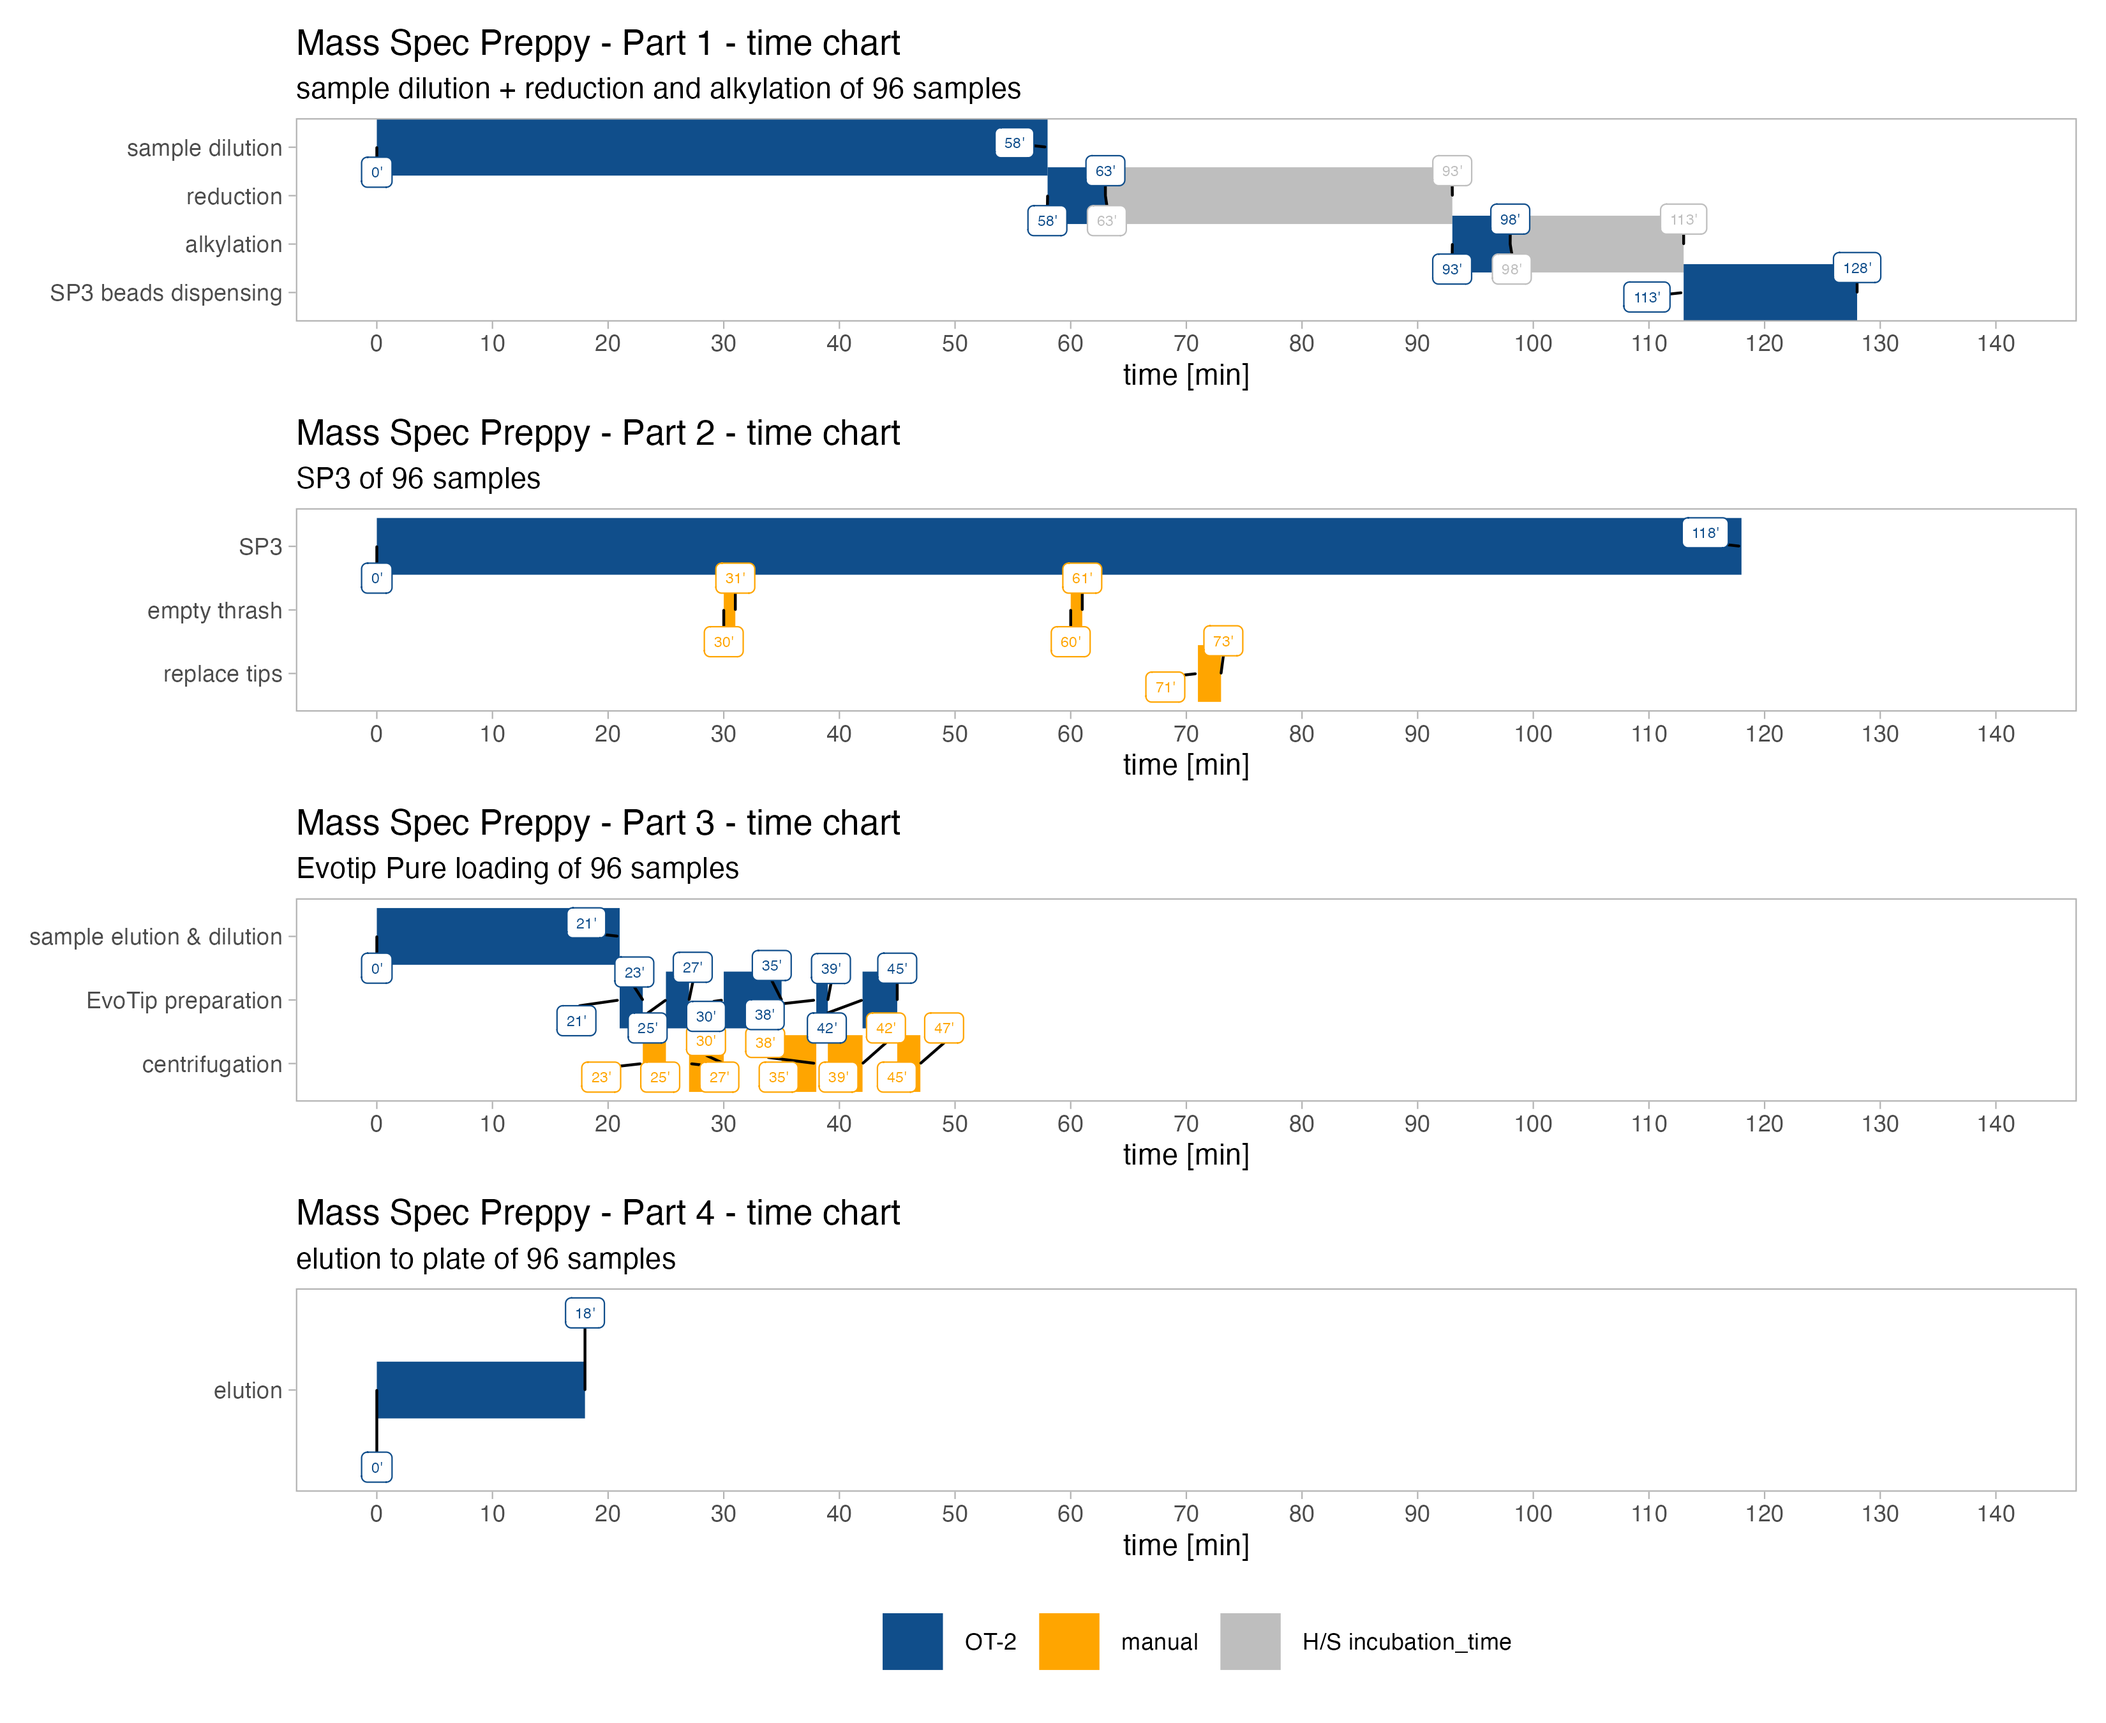
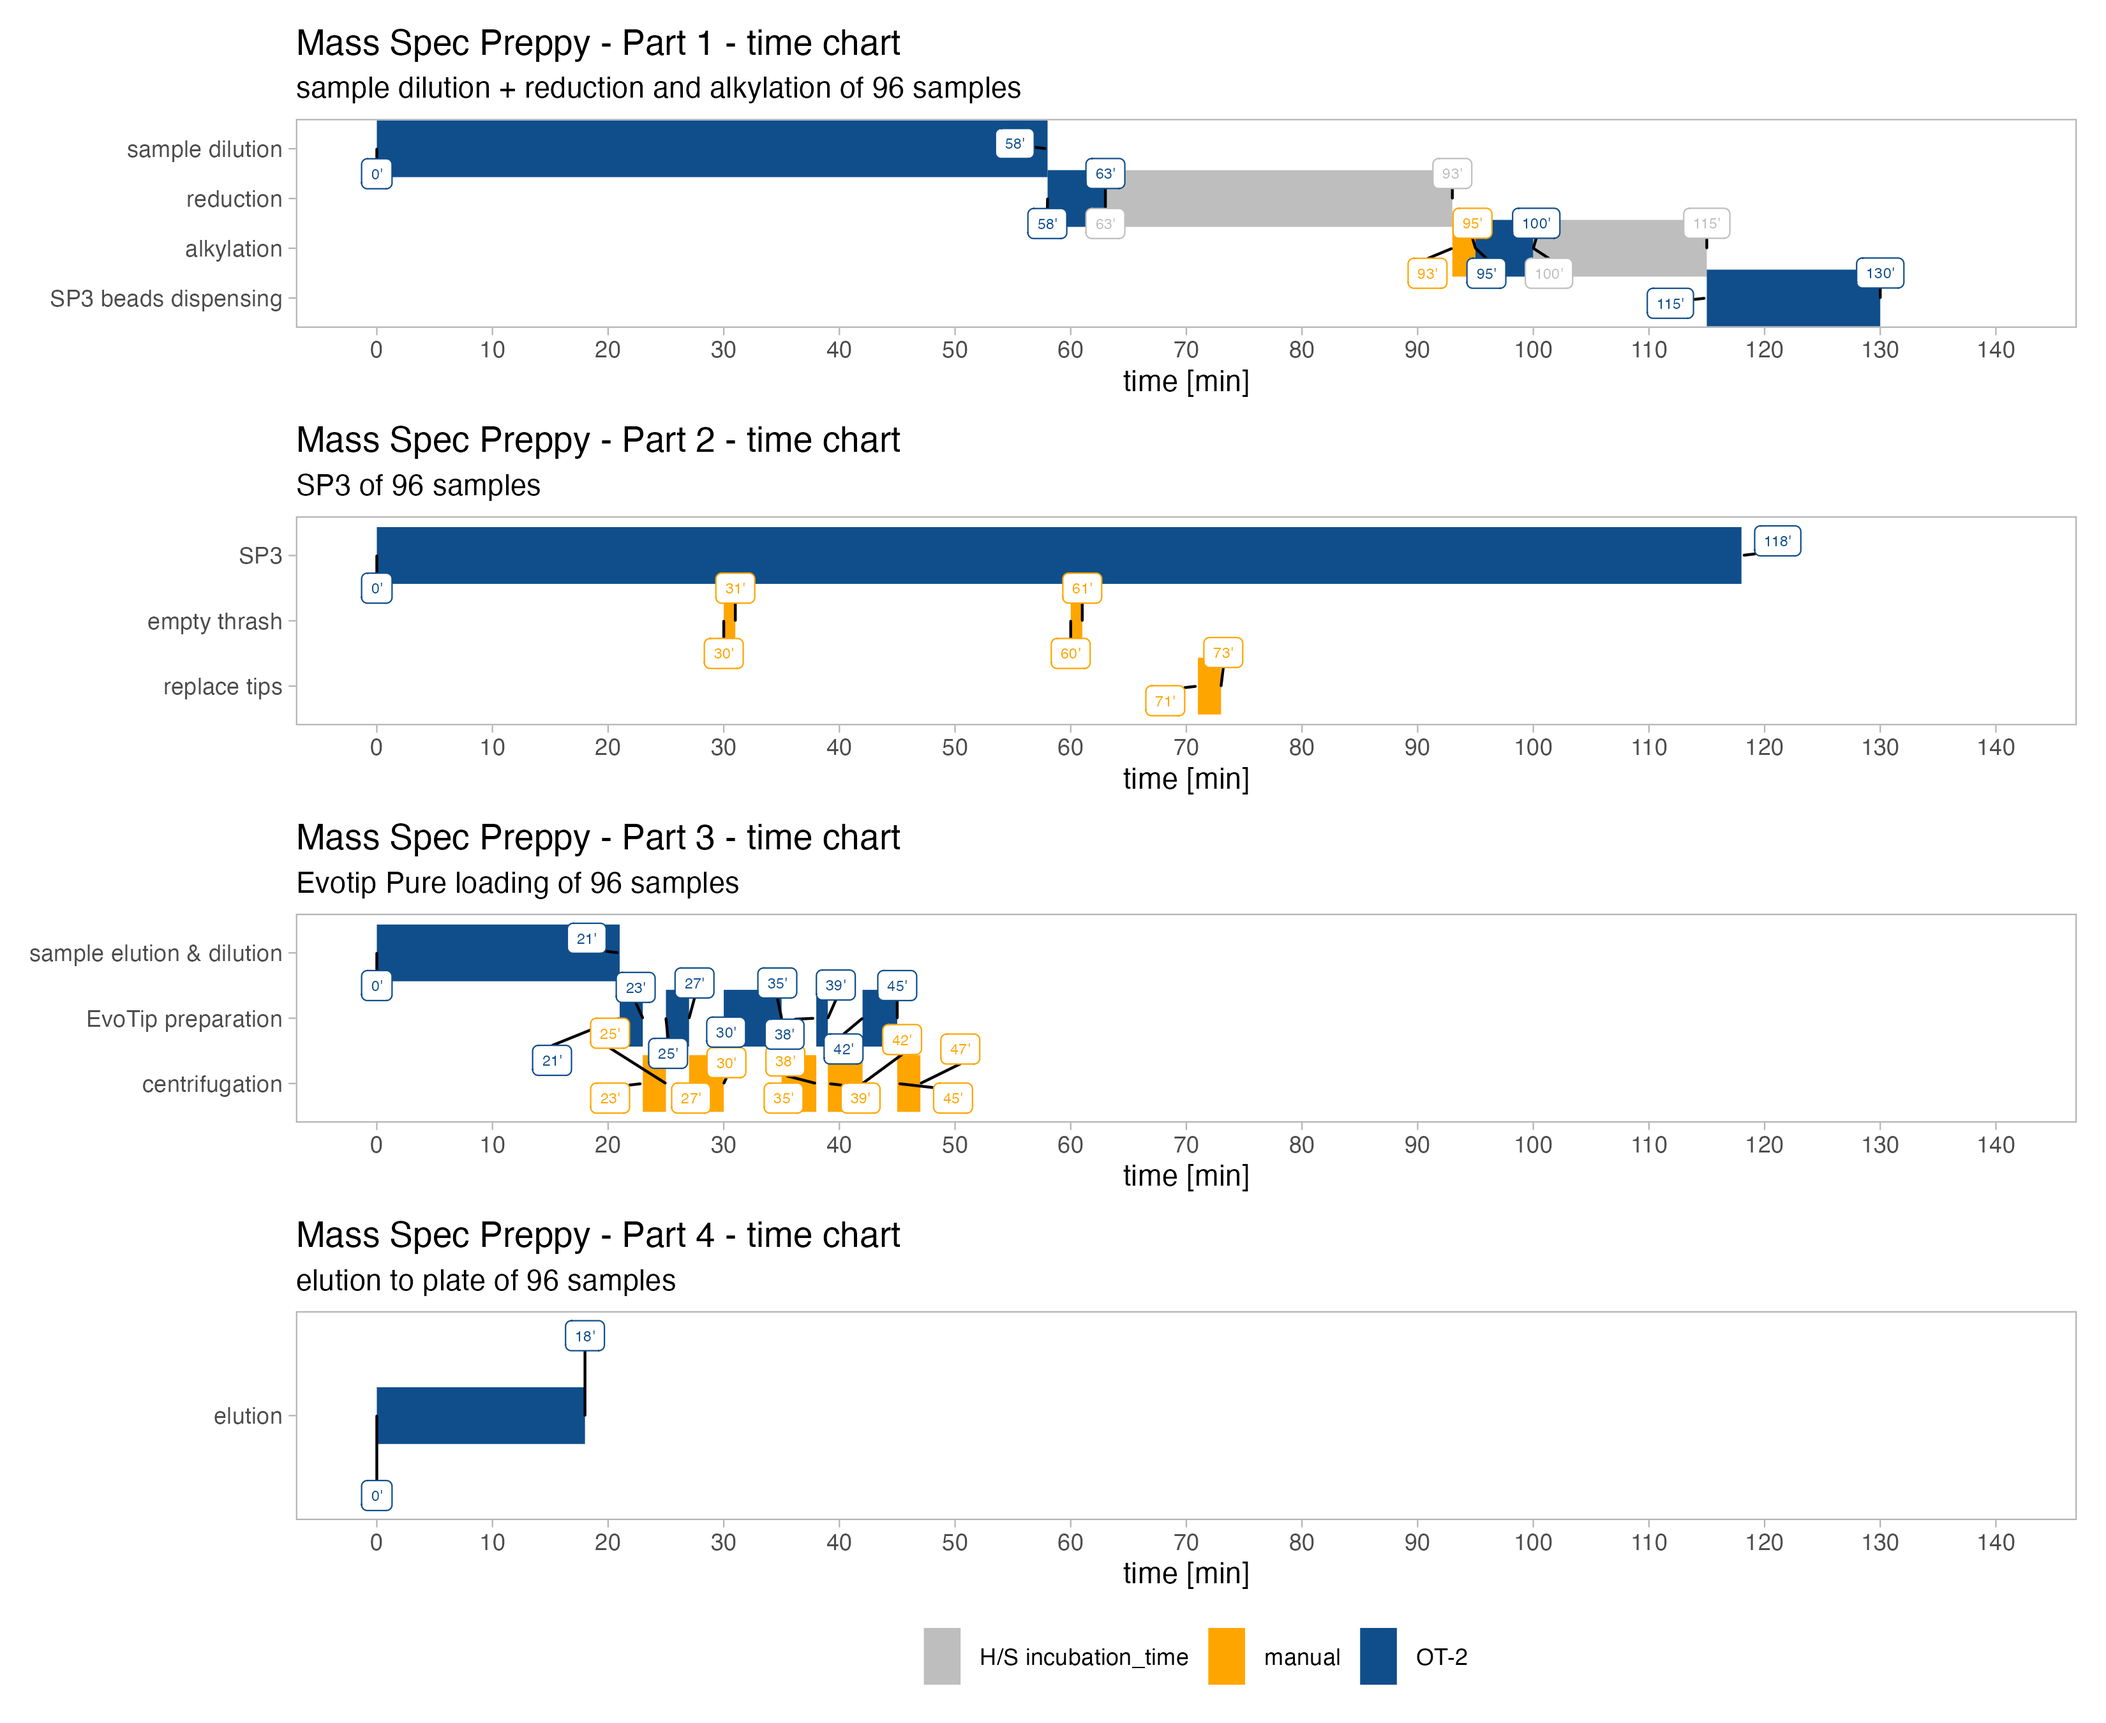
add iodoacetamide caution specific changes for the robot

diff --git a/www/Mass_Spec_Preppy__OT2_part1_sample_preparation_in_96well.py b/www/Mass_Spec_Preppy__OT2_part1_sample_preparation_in_96well.py
@@ -202,11 +202,11 @@ def run(protocol: protocol_api.ProtocolContext):
   hs_mod.set_and_wait_for_temperature(37)
   protocol.delay(minutes=30)
   hs_mod.deactivate_heater()
+  
   #pause step
-  #protocol.pause("take preparation plate out for incubation for 30 minutes at 37°C for reduction. Put it back afterwards!!! and resume")
+  protocol.pause("add freshly prepared IAA solution to the reagent plate")
   
   
-
   #transfer IAA to sample
   for i in range(0, math.ceil(sample_number/8)):
     m20.transfer(3.125,
